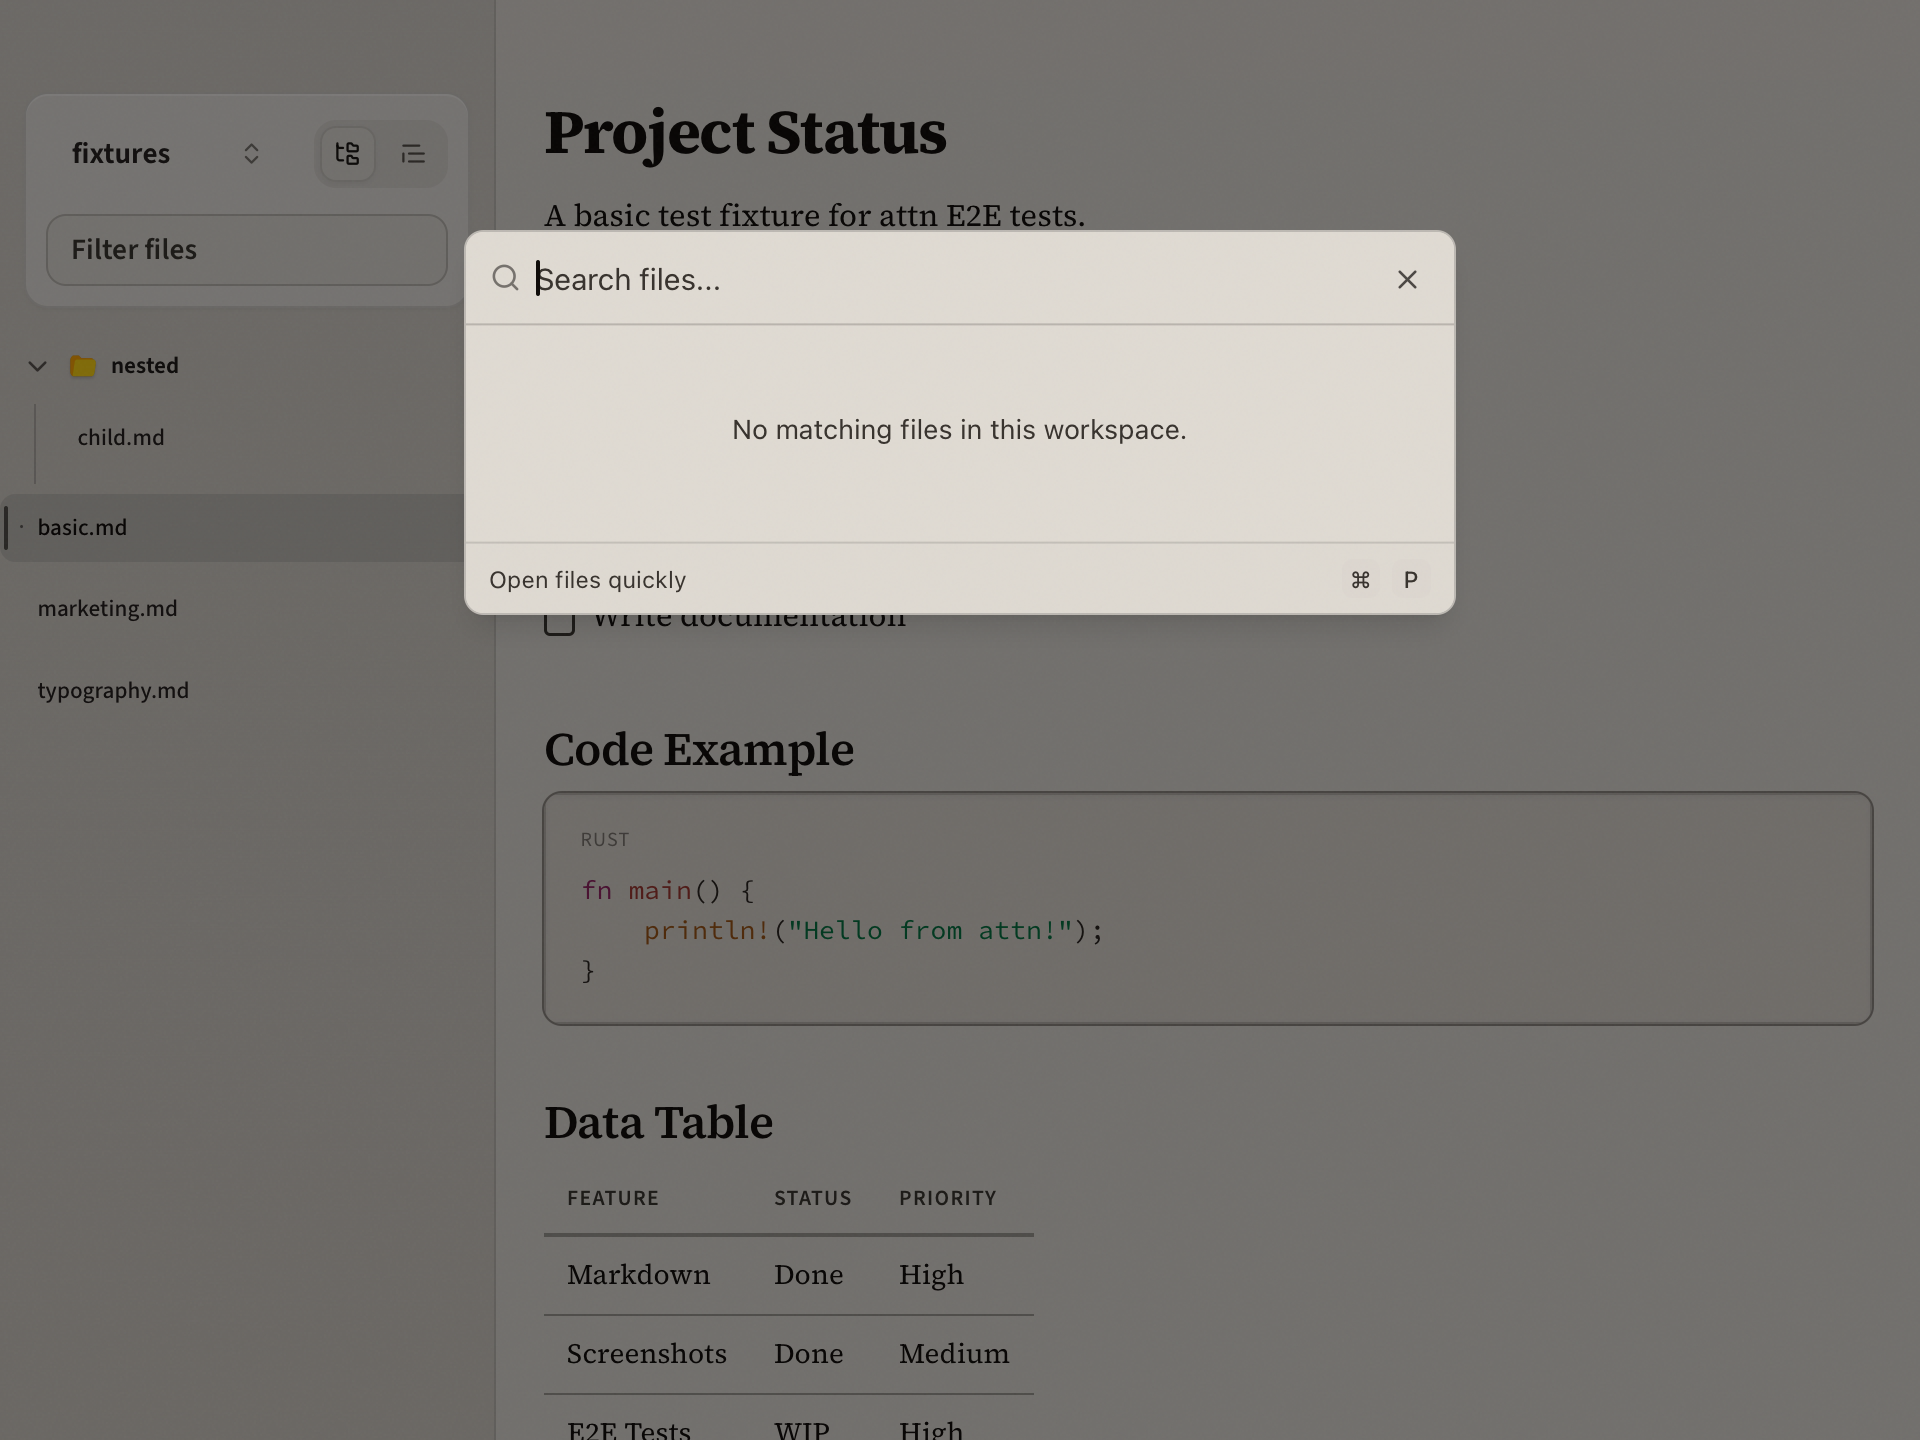
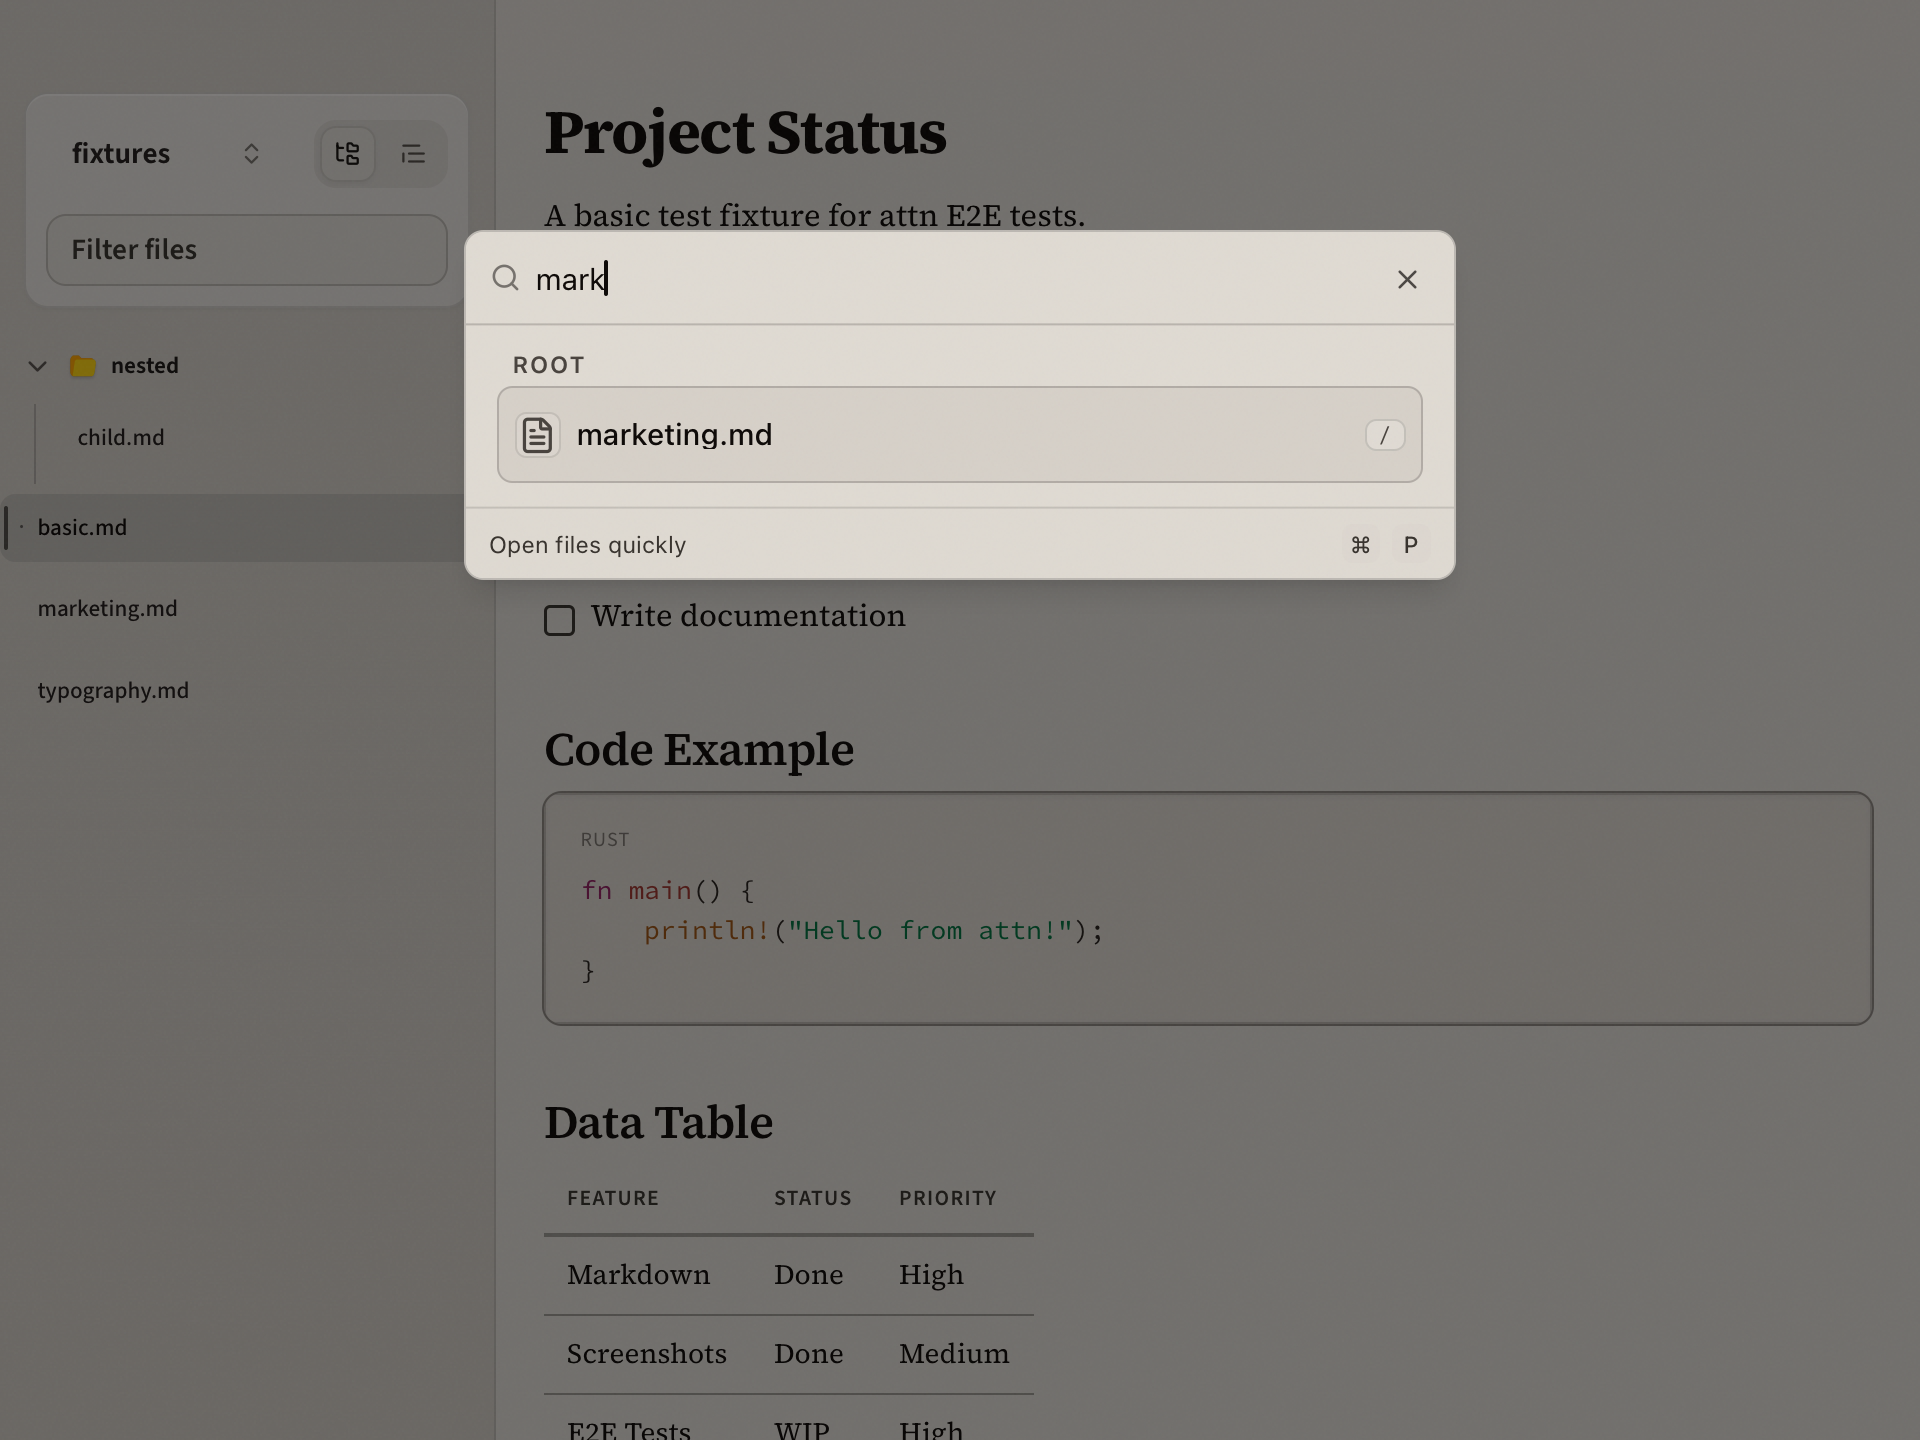
Fix screenshot display and update marketing copy
- Remove forced aspect ratios and object-cover that cropped screenshots
  (images now display at natural 4:3 ratio without clipping)
- Update editor description to remove "Hit ⌘E" (editing is always available)
- Fill search field with "mark" in screenshot script so command palette
  shows actual results instead of empty "No matching files"
- Scroll content to top before hero screenshot capture

Changed region(s): [[0.2188, 0.375, 0.7812, 0.4375], [0.25, 0.25, 0.625, 0.3125], [0.2812, 0.1875, 0.375, 0.2188]]

diff --git a/site/src/lib/Hero.svelte b/site/src/lib/Hero.svelte
@@ -36,17 +36,17 @@
 			</a>
 		</div>
 
-		<div class="relative mt-16 max-w-4xl mx-auto aspect-[16/10] rounded-xl shadow-2xl border border-border overflow-hidden bg-card">
+		<div class="relative mt-16 max-w-4xl mx-auto rounded-xl shadow-2xl border border-border overflow-hidden bg-card">
 			<img
 				src="/screenshots/hero-light.png"
 				alt="attn in light mode"
-				class="absolute inset-0 w-full h-full object-cover transition-opacity duration-500"
+				class="w-full transition-opacity duration-500"
 				class:opacity-0={getTheme() === 'dark'}
 			/>
 			<img
 				src="/screenshots/hero-dark.png"
 				alt="attn in dark mode"
-				class="absolute inset-0 w-full h-full object-cover transition-opacity duration-500"
+				class="absolute inset-0 w-full transition-opacity duration-500"
 				class:opacity-0={getTheme() !== 'dark'}
 			/>
 		</div>

diff --git a/site/src/lib/FeatureSection.svelte b/site/src/lib/FeatureSection.svelte
@@ -19,17 +19,17 @@
 		<p class="font-sans text-lg text-muted-foreground mt-4 leading-relaxed">{description}</p>
 	</div>
 
-	<div class="relative aspect-[4/3] rounded-xl shadow-lg border border-border overflow-hidden bg-card">
+	<div class="relative rounded-xl shadow-lg border border-border overflow-hidden bg-card">
 		<img
 			src={lightSrc}
 			{alt}
-			class="absolute inset-0 w-full h-full object-cover transition-opacity duration-500"
+			class="w-full transition-opacity duration-500"
 			class:opacity-0={getTheme() === 'dark'}
 		/>
 		<img
 			src={darkSrc}
 			{alt}
-			class="absolute inset-0 w-full h-full object-cover transition-opacity duration-500"
+			class="absolute inset-0 w-full transition-opacity duration-500"
 			class:opacity-0={getTheme() !== 'dark'}
 		/>
 	</div>

diff --git a/site/src/routes/+page.svelte b/site/src/routes/+page.svelte
@@ -33,7 +33,7 @@
 	/>
 	<FeatureSection
 		title="Built-in editor"
-		description="Hit ⌘E. Full ProseMirror editor with syntax highlighting, math, and mermaid."
+		description="Full ProseMirror editor with syntax highlighting, math, and mermaid. Edit markdown right where you read it."
 		lightSrc="/screenshots/editor-light.png"
 		darkSrc="/screenshots/editor-dark.png"
 		alt="attn editor mode"
